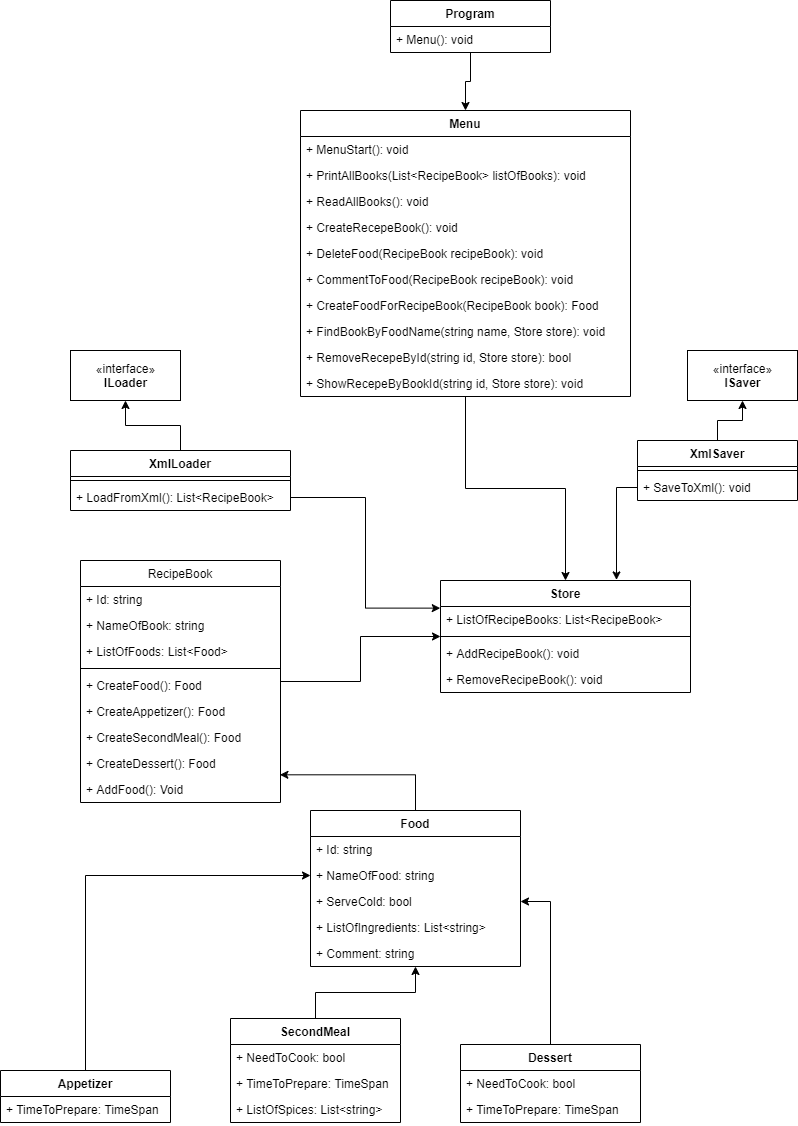
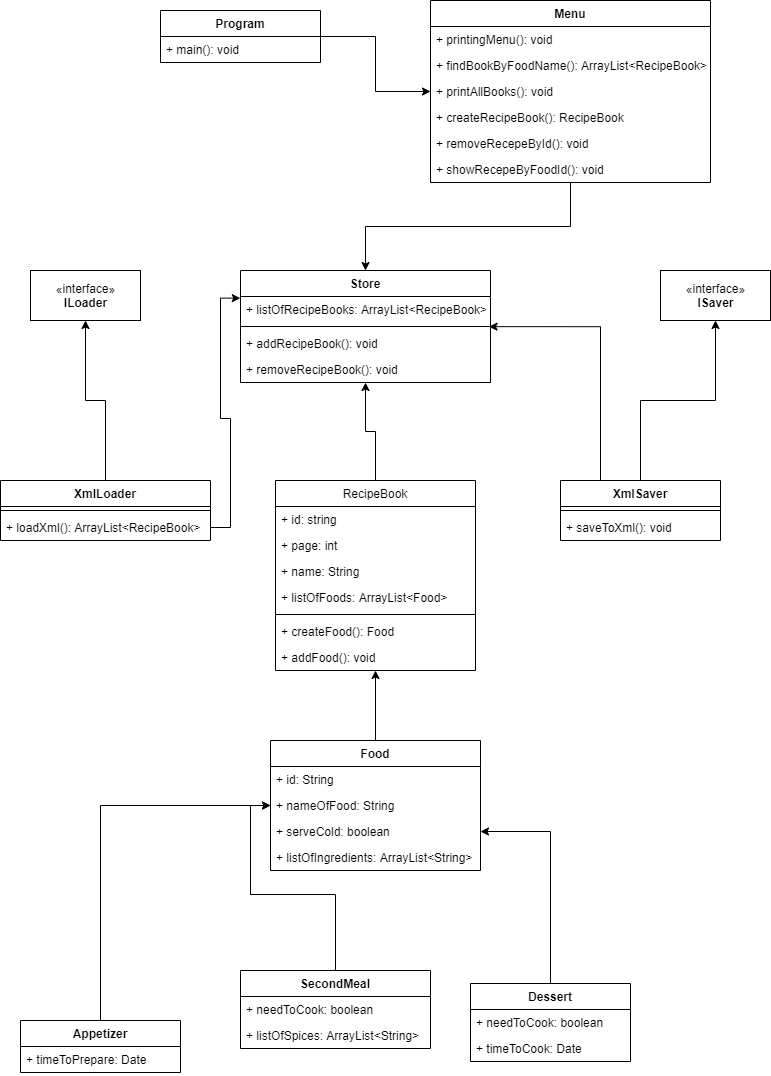
modified diagram, Program init

diff --git a/Project/Program.java b/Project/Program.java
@@ -1,0 +1,8 @@
+package RecepeStoreJava.Project;
+
+
+public class Program {
+    public static void main(String[] args) {
+       
+    }
+}
